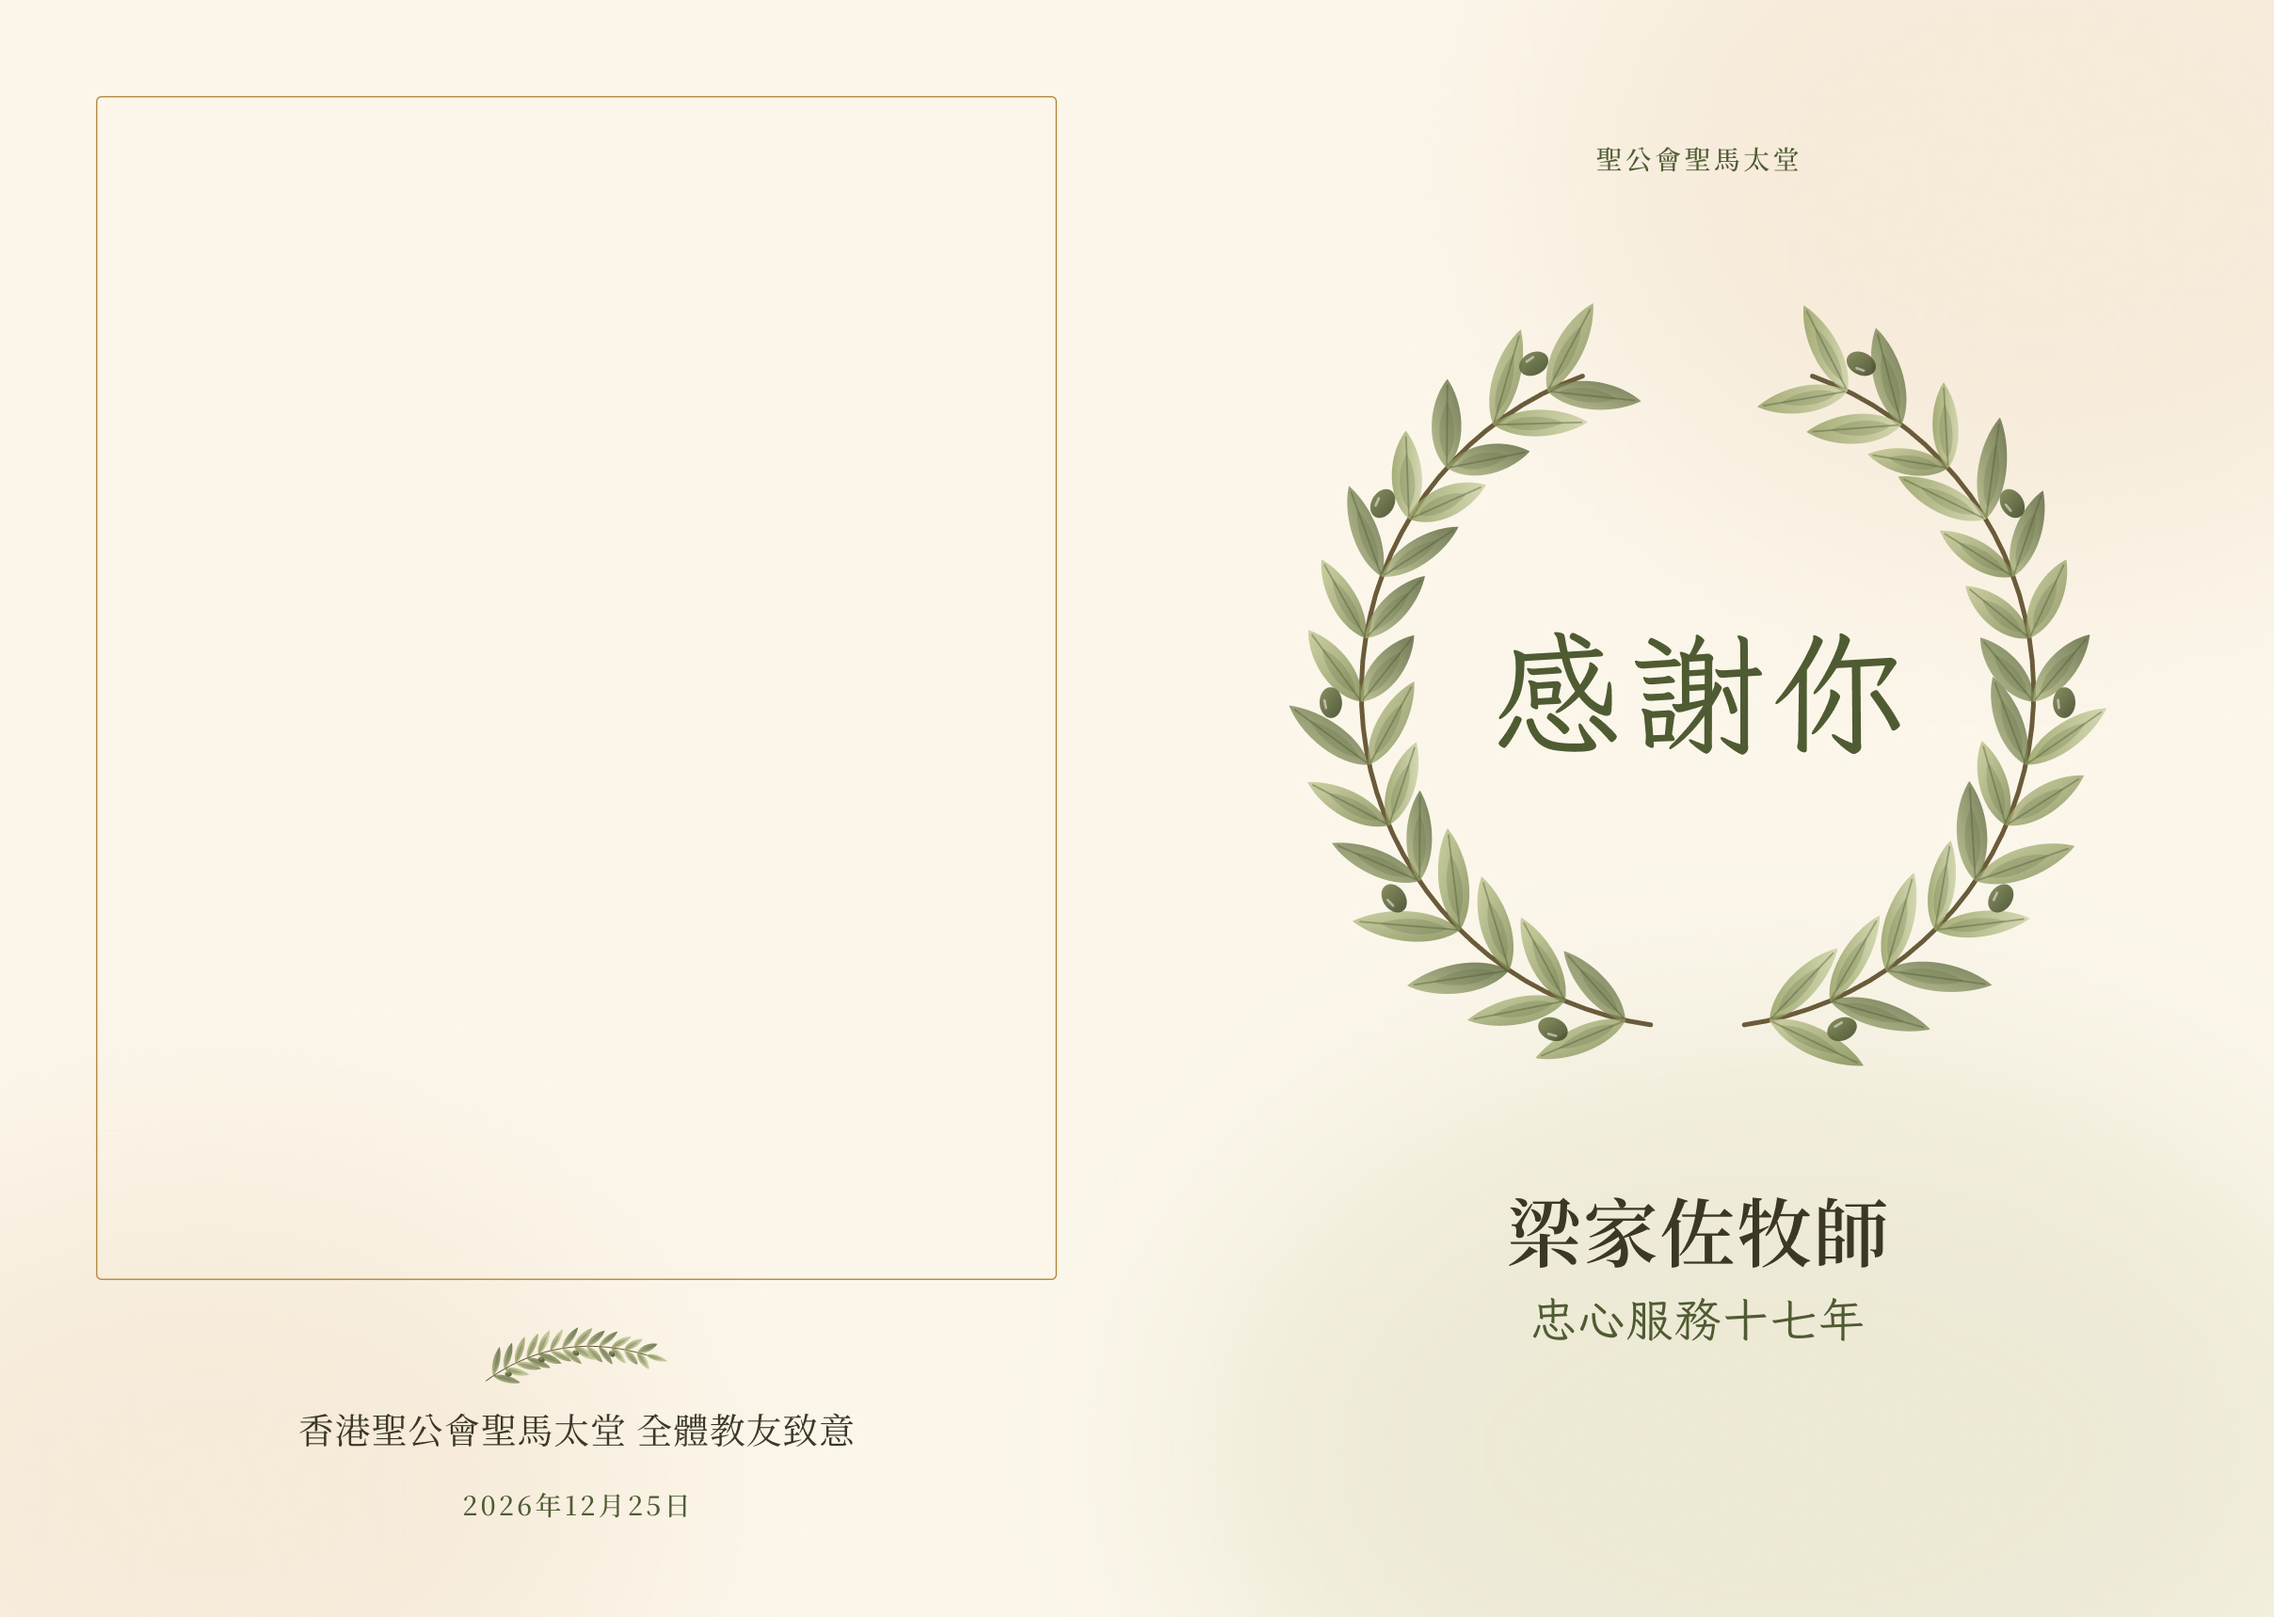
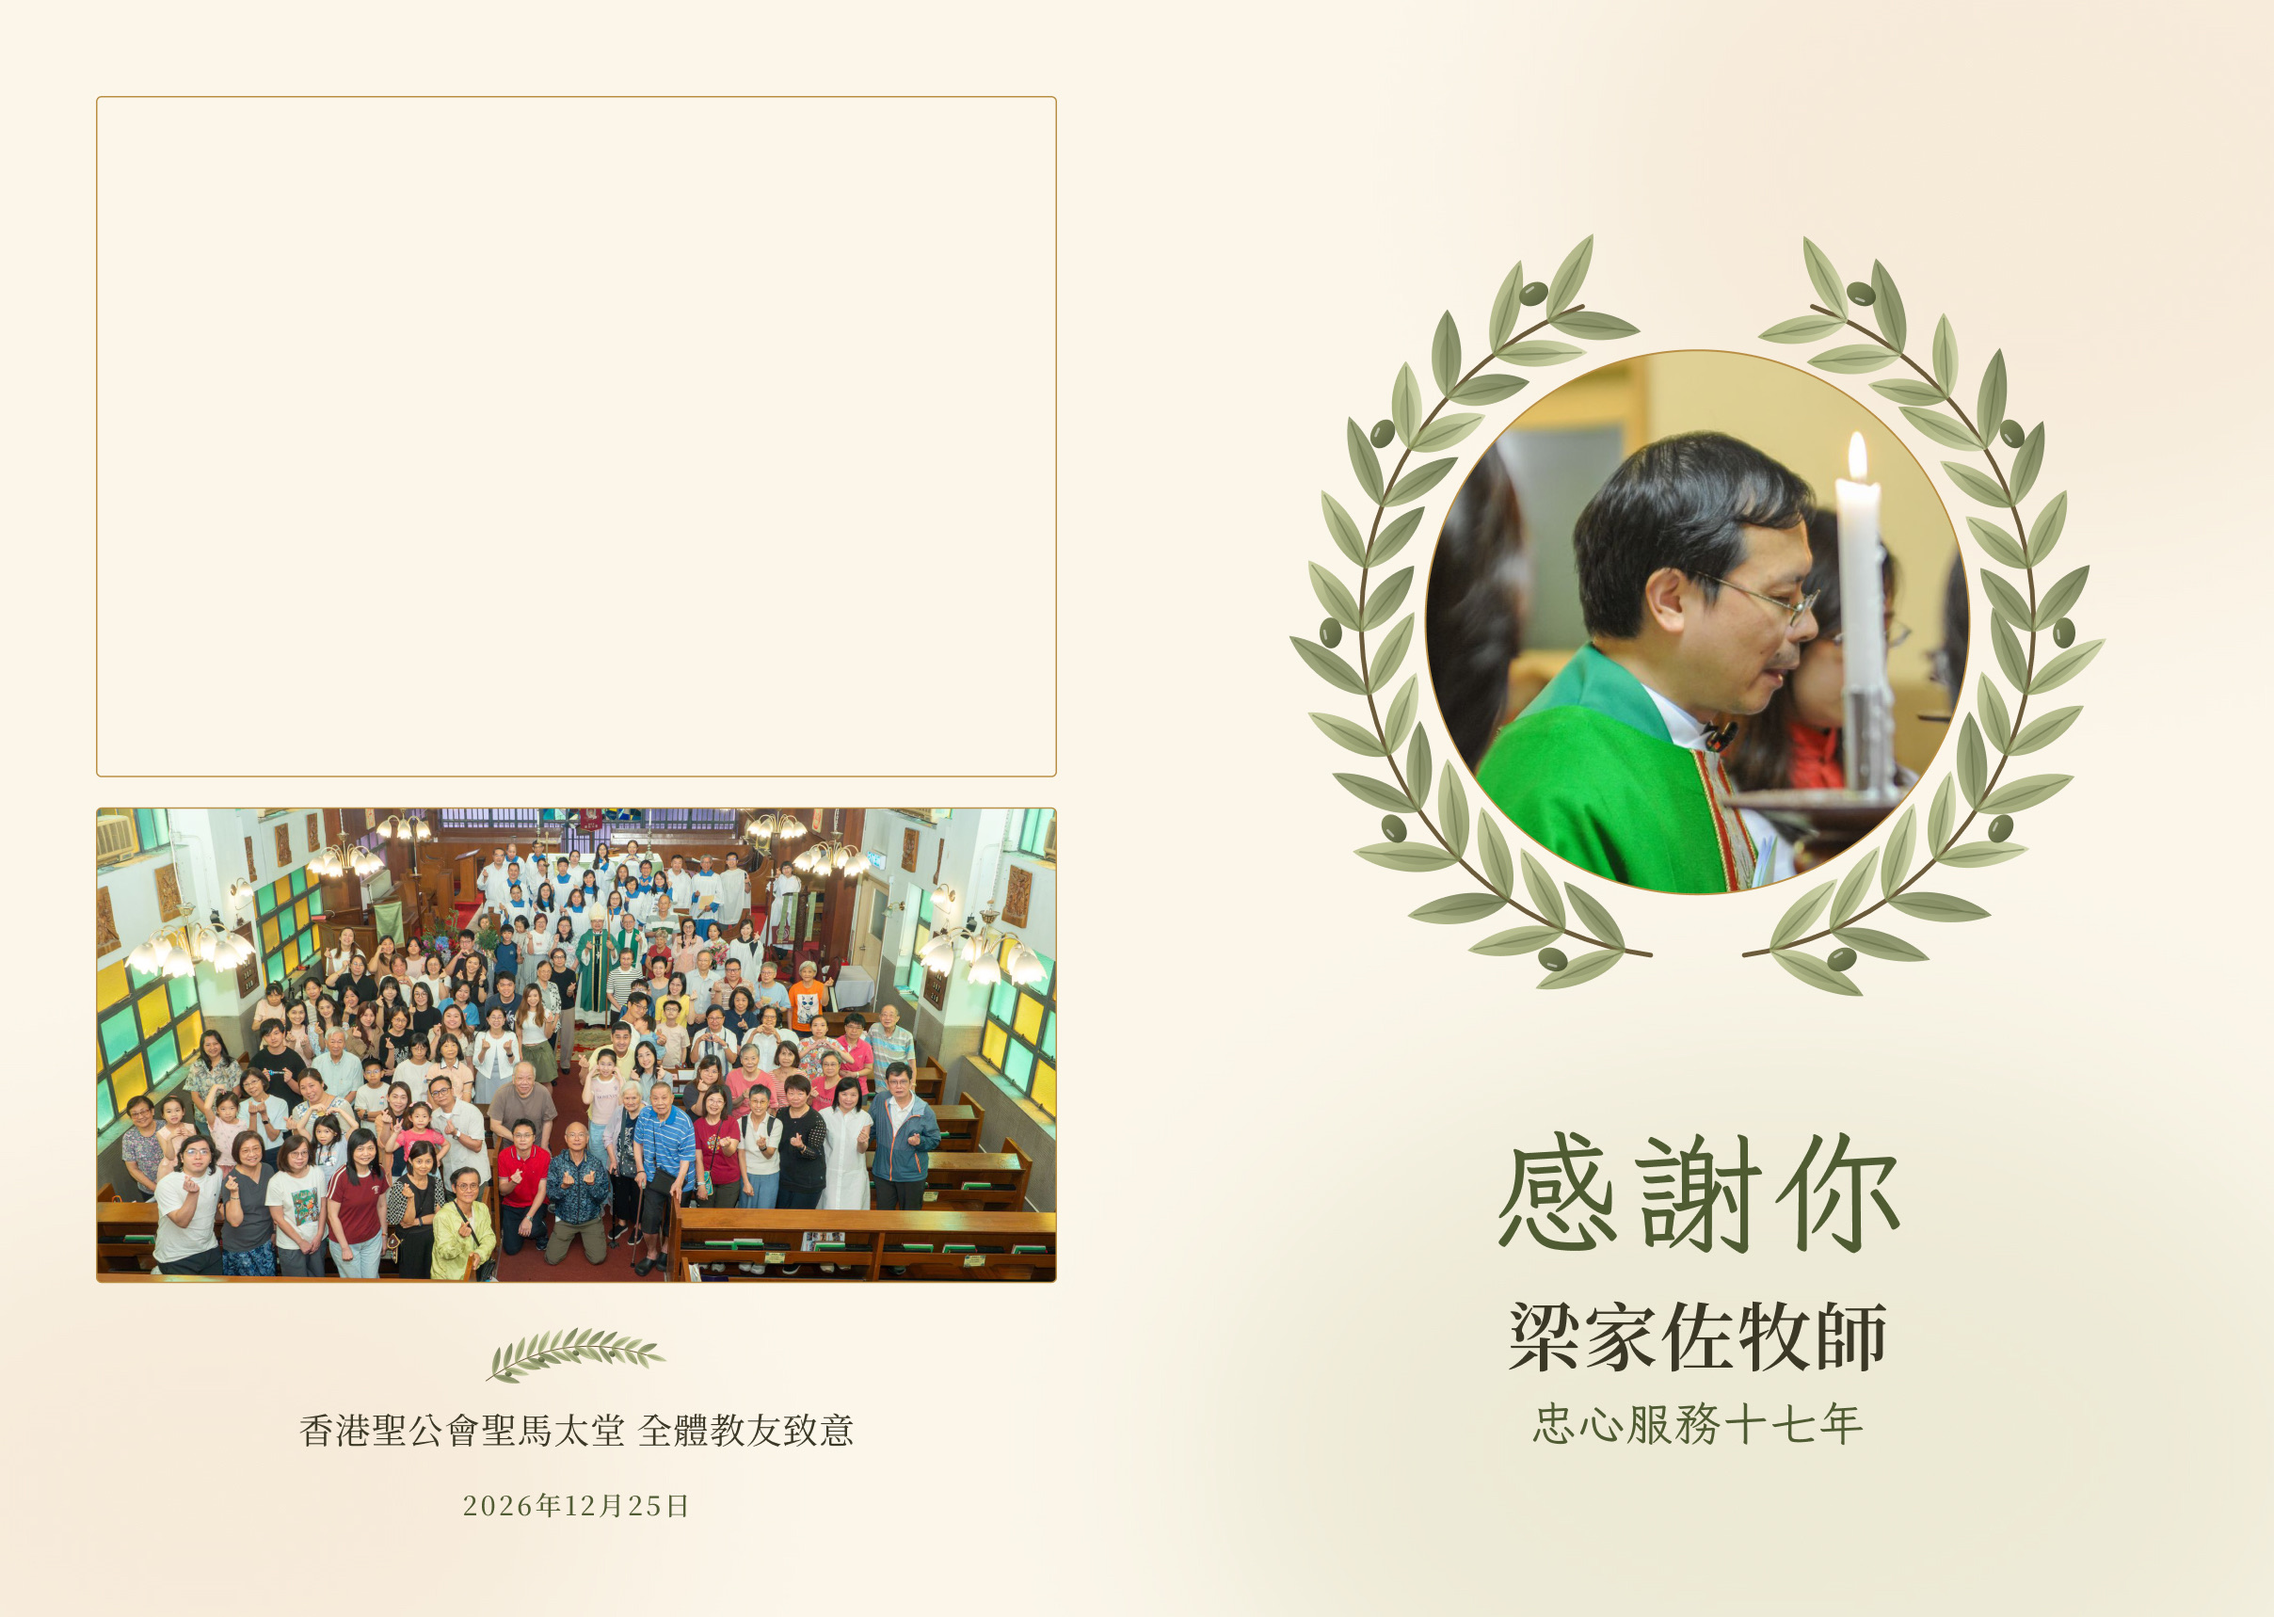
Add the pastor and congregation photos to the folded card

diff --git a/index.html b/index.html
@@ -127,11 +127,11 @@
       <div class="option" id="view-folded">
         <div class="card3d" id="card">
           <div class="leaf">
-            <div class="face fold-left"><img class="right-half" src="images/zh/a-inside.jpg" alt="摺疊卡內頁右側，為空白簽名區。"></div>
-            <div class="face face-reverse"><img class="left-half" src="images/zh/a-outside.jpg" alt="摺疊卡背面，上方是簽名框，下方是橄欖枝、獻辭和日期。"></div>
+            <div class="face fold-left"><img class="right-half" src="images/zh/a-inside.jpg" alt="摺疊卡內頁右側，上方是簽名區，下方是聖馬太堂七十周年大合照。"></div>
+            <div class="face face-reverse"><img class="left-half" src="images/zh/a-outside.jpg" alt="摺疊卡背面，上方是簽名框，中間是教友在禮堂的合照，下方是橄欖枝、獻辭和日期。"></div>
           </div>
           <div class="leaf leaf-cover">
-            <div class="face"><img class="right-half" src="images/zh/a-outside.jpg" alt="卡片封面，橄欖花環圍繞著「感謝你」三字，下方是牧師的稱呼。"></div>
+            <div class="face"><img class="right-half" src="images/zh/a-outside.jpg" alt="卡片封面，橄欖花環圍繞著梁牧師的相片，下方是「感謝你」和牧師的稱呼。"></div>
             <div class="face face-reverse fold-right"><img class="left-half" src="images/zh/a-inside.jpg" alt="摺疊卡內頁左側，有感謝語、聖經金句和簽名區。"></div>
           </div>
         </div>
@@ -148,7 +148,7 @@
       <p class="summary" id="fact-summary">將 A3 紙對摺，打開方式就像傳統賀卡，內頁和背面都可以簽名。</p>
       <dl>
         <div><dt>完成尺寸</dt><dd id="fact-size">合上時 A4，打開時 A3</dd></div>
-        <div><dt id="fact-space-label">80 人的簽名空間</dt><dd id="fact-space">每人 14 平方厘米</dd></div>
+        <div><dt id="fact-space-label">80 人的簽名空間</dt><dd id="fact-space">每人 9 平方厘米</dd></div>
         <div><dt>最適合</dt><dd id="fact-good">讓牧師隨時打開重溫的紀念品</dd></div>
         <div><dt>請留意</dt><dd id="fact-mind">內頁的簽名在卡片合上時看不到</dd></div>
       </dl>
@@ -164,7 +164,7 @@
 
 <script>
   const OPTIONS = {
-    folded: { ratio: 842 / 595.5, title: '摺疊卡', summary: '將 A3 紙對摺，打開方式就像傳統賀卡，內頁和背面都可以簽名。', size: '合上時 A4，打開時 A3', space: '每人 14 平方厘米', good: '讓牧師隨時打開重溫的紀念品', mind: '內頁的簽名在卡片合上時看不到' },
+    folded: { ratio: 842 / 595.5, title: '摺疊卡', summary: '將 A3 紙對摺，打開方式就像傳統賀卡，內頁和背面都可以簽名。', size: '合上時 A4，打開時 A3', space: '每人 9 平方厘米', good: '讓牧師隨時打開重溫的紀念品', mind: '內頁的簽名在卡片合上時看不到' },
     reference: { ratio: 1587 / 1123, title: '祝福留言頁（僅供參考）', summary: '這是另一款留言頁設計，只作參考。', size: 'A3 直式', spaceLabel: '留言空間', space: '12 個留言格', good: '寫下祝福或畫畫送給牧師', mind: '僅供參考，不列入印製選擇' }
   };
   const LABELS = { open: '打開卡片', close: '合上卡片', back: '查看背面', front: '查看正面' };
